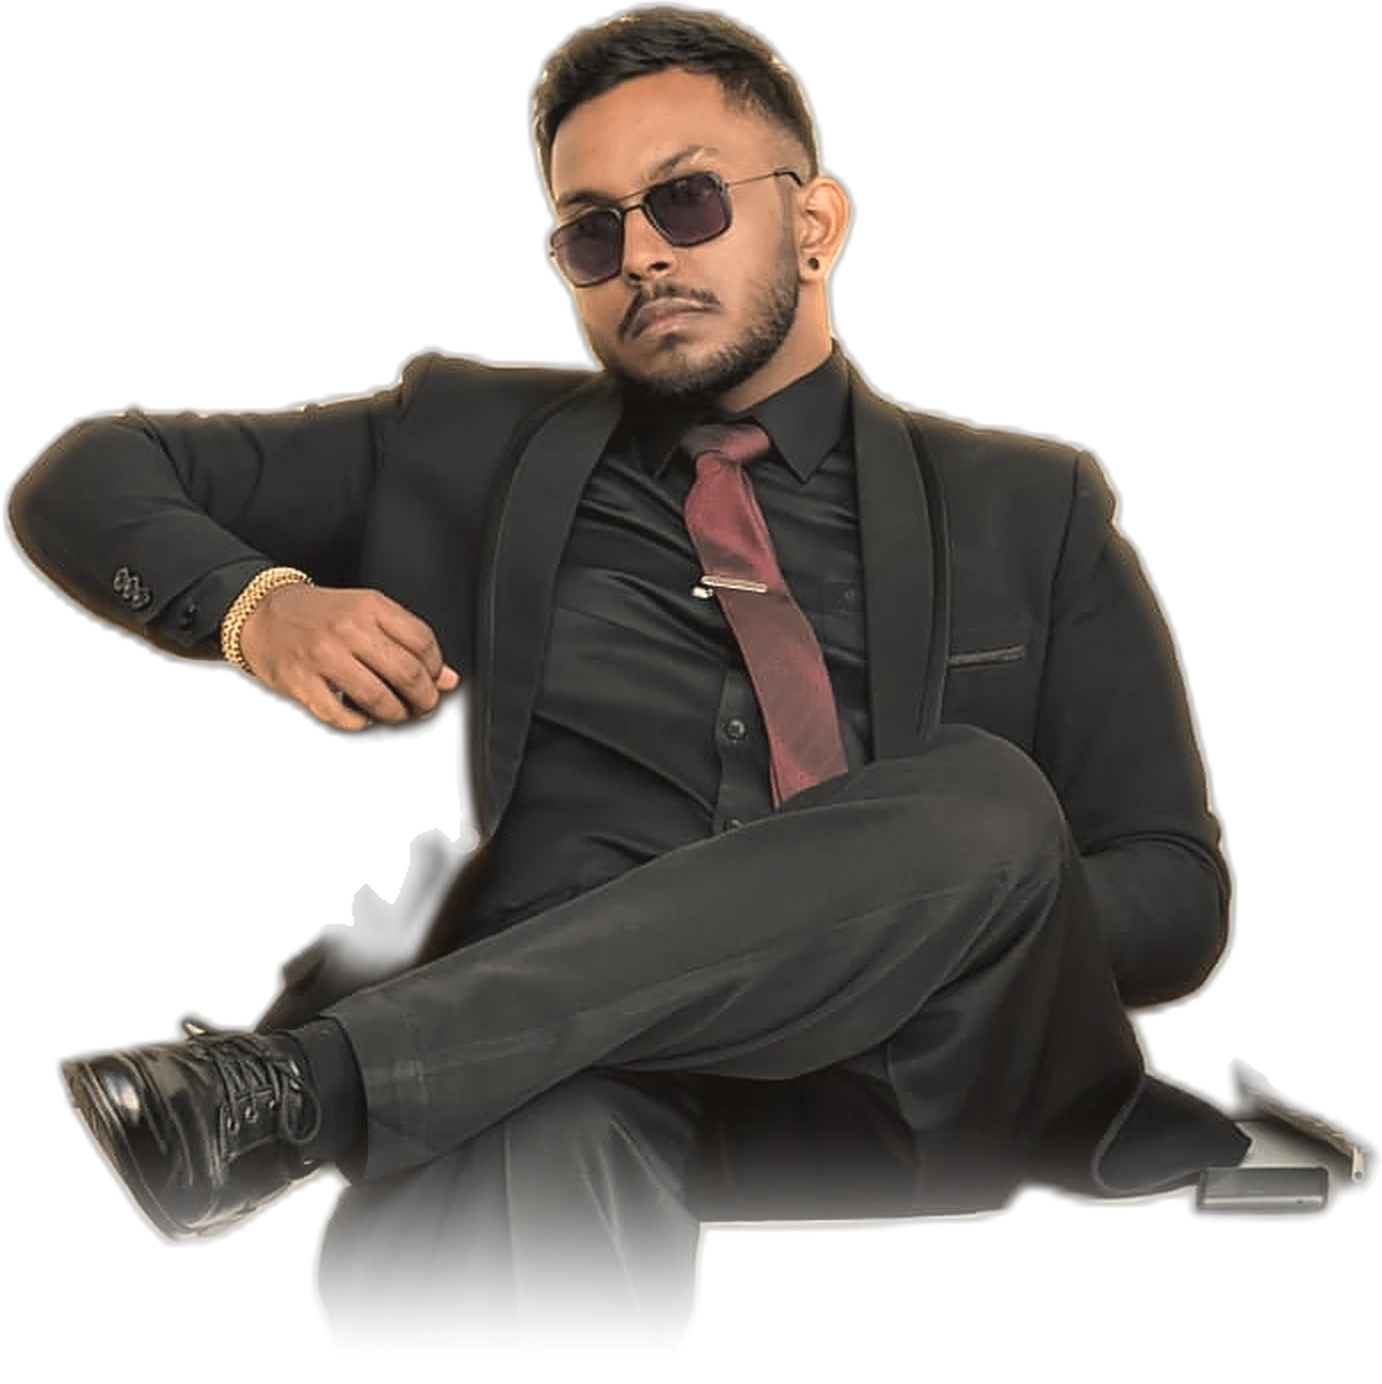
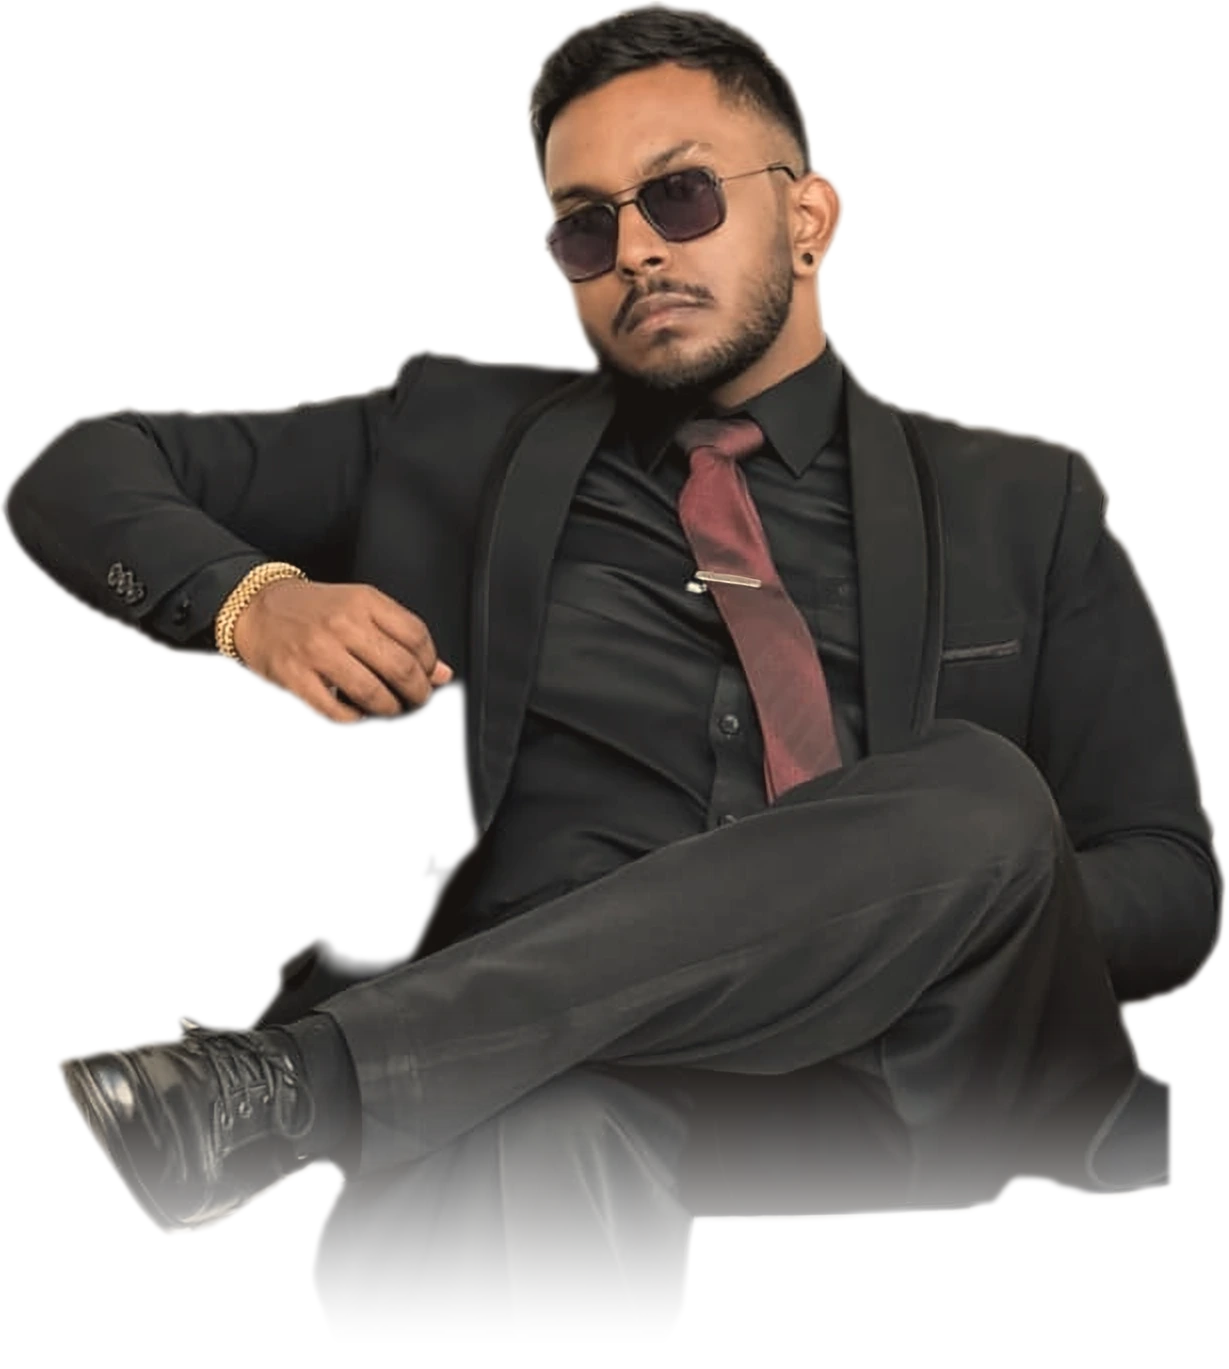
Modern enhanced portrait

diff --git a/src/components/Hero.jsx b/src/components/Hero.jsx
@@ -82,20 +82,20 @@ export default function Hero() {
       </div>
 
       {/* huge word behind him */}
-      <h2 className="pointer-events-none absolute left-1/2 top-[58%] -translate-x-1/2 -translate-y-1/2 select-none whitespace-nowrap font-display text-[26vw] font-medium leading-none tracking-tight text-fg/15 md:left-[60%] md:top-[55%] md:text-[19vw]">
+      <h2 className="pointer-events-none absolute left-1/2 top-[34%] -translate-x-1/2 -translate-y-1/2 select-none whitespace-nowrap font-display text-[26vw] font-medium leading-none tracking-tight text-fg/15 md:left-[60%] md:top-[40%] md:text-[19vw]">
         VISUALS
       </h2>
 
       {/* his portrait: RAW and GRADED stacked, cross-fading */}
-      <div className={`absolute bottom-[38vh] left-1/2 w-max -translate-x-1/2 md:bottom-0 md:left-[63%] ${p.size}`}>
+      <div className={`absolute bottom-[43vh] left-1/2 w-max -translate-x-1/2 md:bottom-0 md:left-[63%] ${p.size}`}>
         <img
           src={`${base}${p.file}-raw.webp`}
-          alt="Portrait (raw)"
+          alt="Kulara Ramanayake (raw photo)"
           className="h-full w-auto max-w-none object-contain"
         />
         <img
           src={`${base}${p.file}-graded.webp`}
-          alt="Portrait (colour graded)"
+          alt="Kulara Ramanayake (colour graded)"
           className={`absolute inset-0 h-full w-auto max-w-none object-contain transition-opacity duration-700 ${graded ? 'opacity-100' : 'opacity-0'}`}
         />
       </div>
@@ -110,7 +110,7 @@ export default function Hero() {
         </span>
         <a href="#" className="grid h-14 w-14 place-items-center rounded-full bg-[var(--hero-edge)]/85 font-display text-xl italic text-fg shadow-lg ring-1 ring-fg/15 backdrop-blur">
           <span>
-            HN<span className="text-accent">.</span>
+            KR<span className="text-accent">.</span>
           </span>
         </a>
         <button className="grid h-14 w-14 place-items-center rounded-full bg-[var(--hero-edge)]/85 shadow-lg ring-1 ring-fg/15 backdrop-blur" aria-label="Menu">
@@ -125,10 +125,12 @@ export default function Hero() {
       {/* name + intro */}
       <div className="absolute bottom-28 left-6 right-6 z-20 md:bottom-24 md:left-12 md:max-w-xl">
         <p className="flex items-center gap-3 font-mono text-[11px] tracking-[0.25em] text-fg/80">
-          <span className="h-2 w-2 rounded-full bg-accent" /> HELLO, I'M HIS NAME
+          <span className="h-2 w-2 rounded-full bg-accent" /> HELLO, I'M KULARA RAMANAYAKE
         </p>
-        <h1 className="mt-3 text-6xl font-extrabold leading-[0.9] tracking-[-0.04em] md:text-8xl">
-          His Name<span className="text-accent">.</span>
+        <h1 className="mt-3 text-5xl font-extrabold leading-[0.92] tracking-[-0.04em] md:text-7xl">
+          Kulara
+          <br />
+          Ramanayake<span className="text-accent">.</span>
         </h1>
         <p className="mt-5 text-lg font-light leading-snug text-fg/90 md:text-xl">
           I don't just record moments.

diff --git a/src/index.css b/src/index.css
@@ -17,7 +17,7 @@
 
 /* ---- Themes (switch with data-theme on <html>) ---- */
 /* Warm terracotta (default) */
-:root, [data-theme="terracotta"] {
+[data-theme="terracotta"] {
   --color-paper: #f3e6d6;   /* light cream for buttons/badges */
   --color-fg: #f6ead9;      /* warm off-white text */
   --color-accent: #f2a65a;  /* soft orange dot / accents */
@@ -28,16 +28,17 @@
   --hero-edge: #2a120a;     /* deep brown at the edges */
   --vignette: rgba(30, 12, 6, 0.6);
 }
-[data-theme="cream"] {
-  --hero-center: #f3e7d3;
-  --hero-mid: #d9c6a8;
-  --hero-edge: #5a4330;
-  --color-paper: #ebe2d1;
-  --color-fg: #2b211a;
-  --color-accent: #a8462a;  /* rust */
+/* Vintage cream (default): dark brown text on a warm paper background */
+:root, [data-theme="cream"] {
+  --color-paper: #f4ecdf;   /* cream (button text, badges) */
+  --color-fg: #2a120a;      /* deep brown text (the old background colour) */
+  --color-accent: #b0532a;  /* rust */
   --color-amber: #c08a4a;
-  --color-teal: #5f6f52;    /* olive */
-  --vignette: rgba(70, 45, 25, 0.45);
+  --color-teal: #5f6f52;
+  --hero-center: #fbf5ec;   /* soft light in the middle */
+  --hero-mid: #efe3d0;
+  --hero-edge: #d9c6a7;     /* warm tan at the edges */
+  --vignette: rgba(70, 45, 25, 0.35);
 }
 [data-theme="sage"] {
   --color-paper: #d9d6c3;
